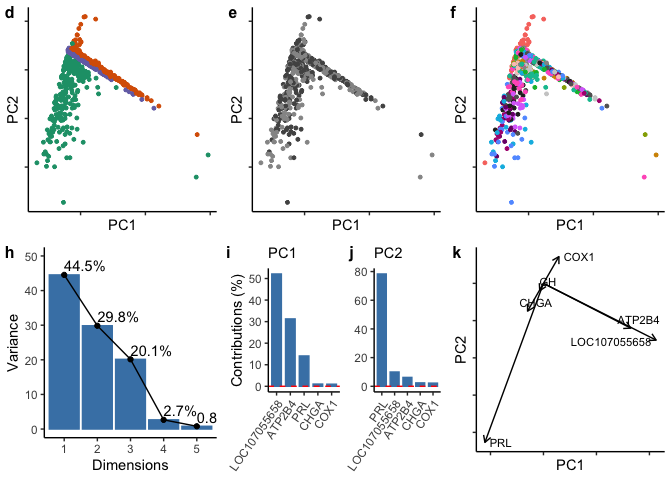
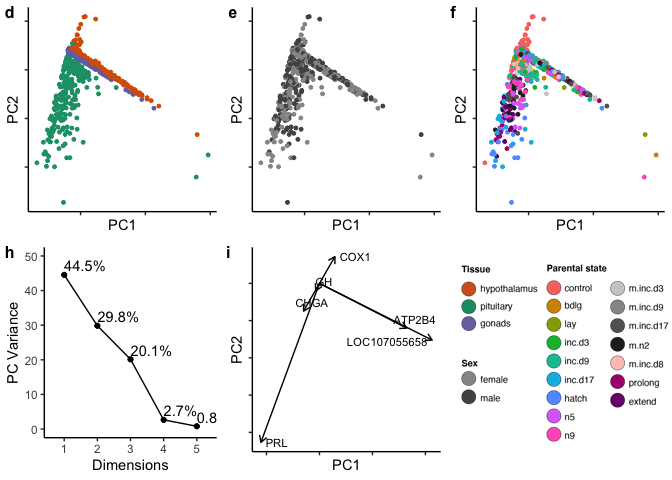
better pca tsne figure

diff --git a/analysis/02_PCA.md b/analysis/02_PCA.md
@@ -122,7 +122,8 @@ All data, characterization and manipulations
 
 ![](../figures/pca/pca-3.png)
 
-    d <- fviz_screeplot(mypca, addlabels = TRUE, ylim = c(0, 50),  ncp = 5) + labs(title = NULL, y = "Variance") + theme_B3() 
+    d <- fviz_screeplot(mypca, addlabels = TRUE, ylim = c(0, 50),  ncp = 5, barcolor = "white", barfill = "white") + 
+      labs(title = NULL, y = "PC Variance") + theme_B3() 
     e <- fviz_contrib(mypca, choice = "var", axes = 1, top = 5)  + labs(title = NULL, subtitle = "PC1", x = NULL) + 
               theme_B3() + theme(axis.text.x = element_text(angle = 55, hjust = 1))
     f <- fviz_contrib(mypca, choice = "var", axes = 2, top = 5)  + labs(title = NULL, subtitle = "PC2", y = NULL, x = NULL) + 
@@ -134,12 +135,14 @@ All data, characterization and manipulations
           labs(x = "PC1", y = "PC2", title =  NULL) +
           theme( axis.text = element_blank()) 
 
+    legend <- png::readPNG("../figures/images/DoveParentsRNAseq_legend.png")
+    legend <-  grid::rasterGrob(legend, interpolate=TRUE)
 
 
     abc <- plot_grid(a,b, c, nrow =  1,  labels = c("d", "e", "f"), label_size = 12)
     defg <- plot_grid(d,e,f,g, nrow = 1, rel_widths = c(1, 0.55, 0.45, 1), labels = c("h", "i", "j", "k" ), label_size = 12)
-    dg <- plot_grid(d,g, NULL, nrow = 1, rel_widths = c(1, 1, 1), labels = c("h", "i", NULL ), label_size = 12)
-    plot_grid(abc, defg, nrow = 2)
+    dg <- plot_grid(d,g, legend, nrow = 1, rel_widths = c(1, 1, 1), labels = c("h", "i", NULL ), label_size = 12)
+    plot_grid(abc, dg, nrow = 2)
 
 ![](../figures/pca/pca-4.png)
 
